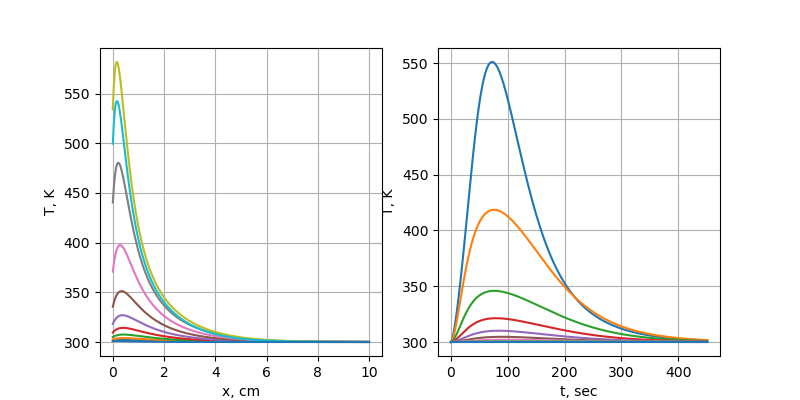
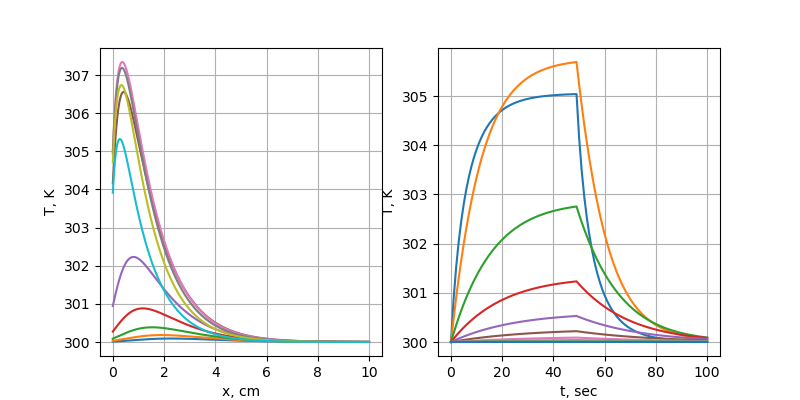
lab4

diff --git a/lab_04/main.py b/lab_04/main.py
@@ -48,7 +48,7 @@ def func_minus_half(func, n, m=None):
 class Solver:
     # a2 = 2.049
     # b2 = 0.563e-3
-    def __init__(self, xmin=0, xmax=10, h=1e-2, tmin=0, tau=1, EPS=None, Fmax=50, tmax=60, a2=2.049, b2=0.563e-3):
+    def __init__(self, xmin=0, xmax=10, h=1e-2, tmin=0, tau=1, EPS=None, Fmax=50, tmax=60, a2=2.049, b2=0.563e-3, use_constant_F0t=False):
         self.xmin = xmin
         self.xmax = xmax
         self.h = h
@@ -63,6 +63,7 @@ class Solver:
         self.l = xmax - xmin
         self.a2 = a2
         self.b2 = b2
+        self.use_constant_F0t = use_constant_F0t
 
     # коэффициент теплопроводимости материала стержня
     def lambda_T(self, n, m):
@@ -92,13 +93,13 @@ class Solver:
 
     # !?
     # импульс излучения
-    # Если в настоящей работе задать поток постоянным, т.е. F0(t) =const, то будет
-    # происходить формирование температурного поля от начальной температуры T0
-    # до некоторого установившегося (стационарного) распределения T(x,t)
-    # Это поле в дальнейшем с течением времени меняться не будет. Это полезный факт для тестирования программы.
-    # Если после разогрева стержня положить поток F(t)=0, то будет происходить
-    # остывание, пока температура не выровняется по всей длине и не станет равной T0
     def F0_t(self, m):
+        if self.use_constant_F0t:
+            if m < self.use_constant_F0t['stop_hitting']:
+                return self.Fmax * self.use_constant_F0t['constantF0t_t'] * exp(-(self.use_constant_F0t['constantF0t_t'] / self.tmax - 1)) / self.tmax
+            else:
+                return 0
+
         t = self.tmin + self.tau * m
         return self.Fmax * t * exp(-(t / self.tmax - 1)) / self.tmax
         # return Fmax * t_array[m] * exp(-(t_array[m] / tmax - 1)) / tmax
@@ -243,6 +244,8 @@ class Solver:
         return T_cur_array
 
     def stop_timing(self):
+        if self.use_constant_F0t:
+            return len(self.T) > self.use_constant_F0t['stop_timing']
         T_array_prev, T_array_new = self.T[-2], self.T[-1]
         for T_prev, T_cur in zip(T_array_prev, T_array_new):
             if abs((T_prev - T_cur) / T_cur) > 10e-4:
@@ -380,35 +383,118 @@ def study_steps():
 # коэффициент теплоемкости материала стержня
 # def c_T(self, n, m):
 #       return self.a2 + self.b2 * pow(self.T[m][n], m2) - c2 / (self.T[m][n] ** 2)
-def study_ab():
+def study3_ab():
     print('research ab')
-    a2_array = [2.049, 3, 5]
-    b2_array = [0.563e-3, 0.6e-2, 0.6e-1]
+    # 2 значения -- по условию
+    a2_array = [1, 2.049, 3, 5]
+    b2_array = [0.1e-3, 0.563e-3, 0.6e-2]
     q=0
-    fig = plt.figure(figsize=(12, 7))
+    fig = plt.figure(figsize=(14, 9))
 
 
     for i, a2 in enumerate(a2_array):
         for j, b2 in enumerate(b2_array):
+            title = f"{q} a2={a2} b2={b2}"
             plt.subplot(len(a2_array), len(b2_array), i * len(b2_array) + j + 1)
             q+=1
+
             solver = Solver(a2=a2, b2=b2)
             solver.solve()
             T, t_array = solver.get_results()
 
             T_0t = [T_m[0] for T_m in T]
-            plt.plot(t_array, T_0t)
+            plt.xticks(list(range(0, 100, 10)))
+            plt.plot(t_array, T_0t, label=title)
+            plt.legend()
 
             print(f'a2={a2}, b2={b2}, T_0t={T_0t}')
-            title = f"{q} a2={a2} b2={b2}"
-            plt.title(title)
+
+            #plt.title(title)
+
 
     plt.savefig(f"a2b2.png")
     plt.show()
 
+# Рассмотреть влияние на получаемые результаты амплитуды импульса Fmax и времени maxt
+# (определяют крутизну фронтов и длительность импульса).
+def study5_Ftmax():
+    # сильнее нагревается
+    def study_cm():
+        q = 0
+        fig = plt.figure(figsize=(14, 9))
+        for i, Fmax in enumerate(Fmax_array):
+            for j, tmax in enumerate(tmax_array):
+                title = f"Fmax={Fmax} tmax={tmax}"
+                plt.subplot(len(Fmax_array), len(tmax_array), i * len(tmax_array) + j + 1)
+                q+=1
+
+                solver = Solver(Fmax=Fmax, tmax=tmax)
+                solver.solve()
+                T, t_array = solver.get_results()
+
+                for cm in [0, int(len(T[0]) / 4), int(len(T[0]) / 2), len(T[0]) - 1]:
+                    T_t = [T_m[cm] for T_m in T]
+                    plt.xticks(list(range(0, 100, 10)))
+                    plt.xlabel("t, c")
+                    plt.ylim((300, 700))
+                    plt.grid()
+                    plt.plot(t_array, T_t, label=title+f'cm={solver.x_array[cm]}')
+                plt.legend()
+
+                print(f'Fmax={Fmax}, tmax={tmax}')
+        plt.savefig(f"Fmaxtmax_cm.png")
+        plt.show()
+
+    # позже выходит на плато
+    def study_t():
+        q = 0
+        fig = plt.figure(figsize=(14, 9))
+        for i, Fmax in enumerate(Fmax_array):
+            for j, tmax in enumerate(tmax_array):
+                title = f"Fmax={Fmax} tmax={tmax}"
+                plt.subplot(len(Fmax_array), len(tmax_array), i * len(tmax_array) + j + 1)
+                q+=1
+
+                solver = Solver(Fmax=Fmax, tmax=tmax)
+                solver.solve()
+                T, t_array = solver.get_results()
+
+                for t in [0, int(len(T) / 4), int(len(T) / 2), len(T) - 1]:
+                    T_t = T[t]
+                    plt.xticks(list(range(0, 10, 1)))
+                    plt.xlabel("x, cm")
+                    plt.ylim((300, 750))
+                    plt.grid()
+                    plt.plot(solver.x_array, T_t, label=title+f't={solver.t_array[t]}')
+                plt.legend()
+
+                print(f'Fmax={Fmax}, tmax={tmax}')
+        plt.savefig(f"Fmaxtmax_t.png")
+        plt.show()
+
+    # Fmax = 50
+    # tmax = 60
+    Fmax_array = [40, 50, 60]
+    tmax_array = [50, 60, 70]
+    study_t()
+    study_cm()
 
 
-
+# Если в настоящей работе задать поток постоянным, т.е. F0(t) =const, то будет
+# происходить формирование температурного поля от начальной температуры T0
+# до некоторого установившегося (стационарного) распределения T(x,t)
+# Это поле в дальнейшем с течением времени меняться не будет. Это полезный факт для тестирования программы.
+# Если после разогрева стержня положить поток F(t)=0, то будет происходить
+# остывание, пока температура не выровняется по всей длине и не станет равной T0
+def test_with_constant_F0_t():
+    # этот флаг выставляет константную F0_t(t=1) до 50 итерации по времени (должен выйти на константы)
+    # далее считаем, что стержень нагрелся, и F0_t=0 (температура по всей длине должна стать 300
+    # прекращаем все итерации на t=100,
+    solver = Solver(use_constant_F0t={"constantF0t_t": 1, 'stop_timing':100, 'stop_hitting': 50})
+    solver.solve()
+    solver.show_results()
+    #solver.print_results()
+    print(solver.check_steps_ok())
 
 
 def main():
@@ -419,7 +505,16 @@ def main():
     # print(solver.check_steps_ok())
 
     #study_steps()
-    study_ab()
+
+
+    # OK
+    #study3_ab()
+
+    # OK
+    # study5_Ftmax()
+
+    # SUPER OK
+    test_with_constant_F0_t()
 
 
 
